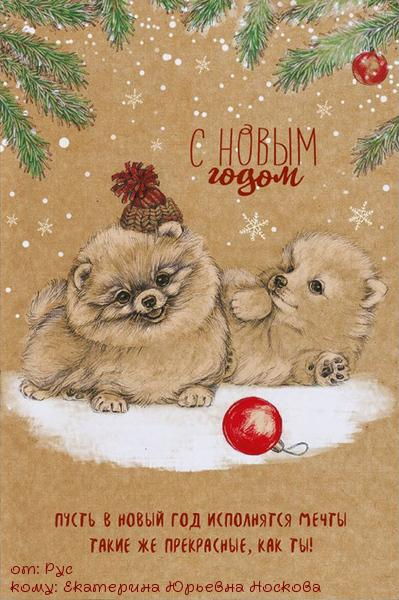
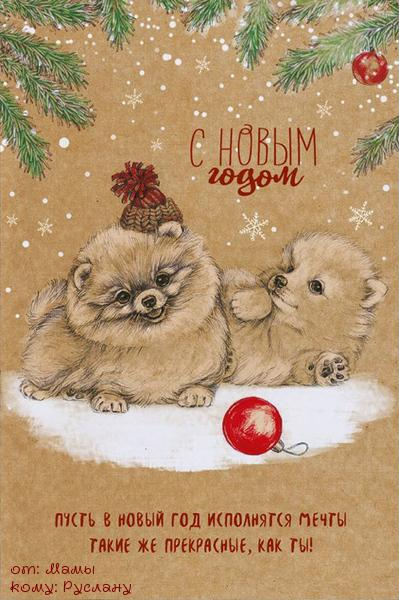
3 days (grace) generation

Changed region(s): [[0.0902, 0.93, 0.812, 1.0]]

diff --git a/photo_generator.py b/photo_generator.py
@@ -29,31 +29,38 @@ def new_year(by, to):
     image4.save('data/NewYear/NewYear55.jpg')
     image4.close()
 
+
 def birthday(by, to):
-    image1 = Image.open("data/NewYear/NewYear1.jpg")
+    image1 = Image.open("data/Birthday/Birthday1.jpg")
     font = ImageFont.truetype("data/fonts/TransformaScript_Trial-Regular.ttf", 15)
     drawer = ImageDraw.Draw(image1)
-    drawer.text((10, 560), f"от: {by}\nкому: {to}", font=font, fill=(128, 0, 0))
-    image1.save('data/NewYear/NewYear11.jpg')
+    drawer.rectangle((0, 360, max(len(f"от: {by}"), len(f"кому: {to}"))*10.5, 400), 'white')
+    drawer.text((5, 360), f"от: {by}\nкому: {to}", font=font, fill=(128, 0, 0))
+    image1.save('data/Birthday/Birthday11.jpg')
     image1.close()
 
-    image2 = Image.open("data/NewYear/NewYear3.jpg")
-    font = ImageFont.truetype("data/fonts/TransformaScript_Trial-Regular.ttf", 30)
+
+    image2 = Image.open("data/Birthday/Birthday2.jpg")
+    font = ImageFont.truetype("data/fonts/TransformaScript_Trial-Regular.ttf", 15)
     drawer = ImageDraw.Draw(image2)
-    drawer.text((10, 950), f"от: {by}\nкому: {to}", font=font, fill=(250, 0, 0))
-    image2.save('data/NewYear/NewYear33.jpg')
+    drawer.rectangle((0, 360, max(len(f"от: {by}"), len(f"кому: {to}"))*10.5, 400), 'white')
+    drawer.text((5, 360), f"от: {by}\nкому: {to}", font=font, fill=(128, 0, 0))
+    image2.save('data/Birthday/Birthday22.jpg')
     image2.close()
 
-    image3 = Image.open("data/NewYear/NewYear4.jpg")
-    font = ImageFont.truetype("data/fonts/TransformaScript_Trial-Regular.ttf", 30)
-    drawer = ImageDraw.Draw(image3)
-    drawer.text((10, 10), f"от: {by}\nкому: {to}", font=font, fill=(250, 0, 0))
-    image3.save('data/NewYear/NewYear44.jpg')
-    image3.close()
 
-    image4 = Image.open("data/NewYear/NewYear5.jpg")
-    font = ImageFont.truetype("data/fonts/TransformaScript_Trial-Regular.ttf", 45)
-    drawer = ImageDraw.Draw(image4)
-    drawer.text((30, 1490), f"от: {by}\nкому: {to}", font=font, fill=(250, 0, 0))
-    image4.save('data/NewYear/NewYear55.jpg')
-    image4.close()
+def march8th(by, to):
+    image1 = Image.open("data/March8th/March8th1.jpg")
+    font = ImageFont.truetype("data/fonts/TransformaScript_Trial-Regular.ttf", 50)
+    drawer = ImageDraw.Draw(image1)
+    drawer.text((5, 1080), f"от: {by}\nкому: {to}", font=font, fill=(120,81,169))
+    image1.save('data/March8th/March8th11.jpg')
+    image1.close()
+
+    image2 = Image.open("data/March8th/March8th2.jpg")
+    font = ImageFont.truetype("data/fonts/TransformaScript_Trial-Regular.ttf", 30)
+    drawer = ImageDraw.Draw(image2)
+    drawer.rectangle((900 - max(len(f"от: {by}"), len(f"кому: {to}"))*20, 830, 900, 900), 'white')
+    drawer.text((905 - max(len(f"от: {by}"), len(f"кому: {to}"))*20, 830), f"от: {by}\nкому: {to}", font=font, fill='#fc0fc0')
+    image2.save('data/March8th/March8th22.jpg')
+    image2.close()

diff --git a/main.py b/main.py
@@ -9,7 +9,7 @@ logging.basicConfig(format='%(asctime)s - %(name)s - %(levelname)s - %(message)s
 logger = logging.getLogger(__name__)
 
 day_select_keyboard = [['День\nРождения', 'Новый\nГод'], ['23 Февраля', '8 марта'], ['1 Мая', 'День\nПобеды']]
-all_days = [j for i in day_select_keyboard for j in i]
+all_days = list(map(lambda x: x.replace('\n', ' '), [j for i in day_select_keyboard for j in i]))
 print(all_days)
 day_select_markup = ReplyKeyboardMarkup(day_select_keyboard, one_time_keyboard=True)
 continue_keyboard = [['Продолжить']]
@@ -71,12 +71,21 @@ async def photo_generate(update, context):
              ]
         )
     if day == 'День Рождения':
-        photo_generator.new_year(by, to)
+        photo_generator.birthday(by, to)
         await update.message.reply_media_group(
-            [InputMediaPhoto(open('data/NewYear/NewYear11.jpg', 'rb')),
-             InputMediaPhoto(open('data/NewYear/NewYear33.jpg', 'rb')),
-             InputMediaPhoto(open('data/NewYear/NewYear44.jpg', 'rb')),
-             InputMediaPhoto(open('data/NewYear/NewYear55.jpg', 'rb'))
+            [InputMediaPhoto(open('data/Birthday/Birthday11.jpg', 'rb')),
+             InputMediaPhoto(open('data/Birthday/Birthday22.jpg', 'rb'))
+             # InputMediaPhoto(open('data/Birthday/Birthday33.jpg', 'rb')),
+             # InputMediaPhoto(open('data/Birthday/Birthday44.jpg', 'rb'))
+             ]
+        )
+    if day == '8 марта':
+        photo_generator.march8th(by, to)
+        await update.message.reply_media_group(
+            [InputMediaPhoto(open('data/March8th/March8th11.jpg', 'rb')),
+             InputMediaPhoto(open('data/March8th/March8th22.jpg', 'rb'))
+             # InputMediaPhoto(open('data/Birthday/Birthday33.jpg', 'rb')),
+             # InputMediaPhoto(open('data/Birthday/Birthday44.jpg', 'rb'))
              ]
         )
     return ConversationHandler.END
